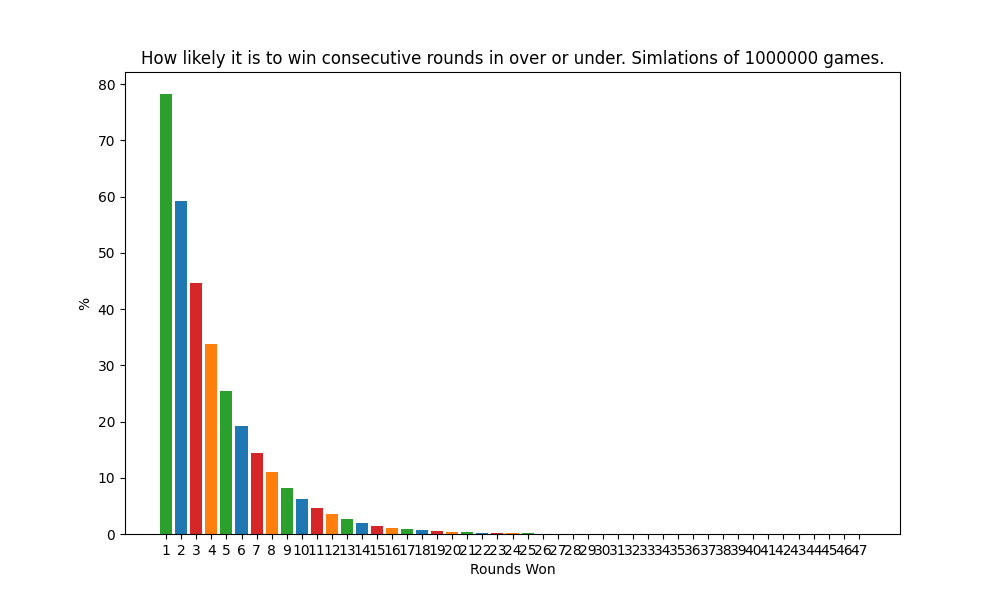
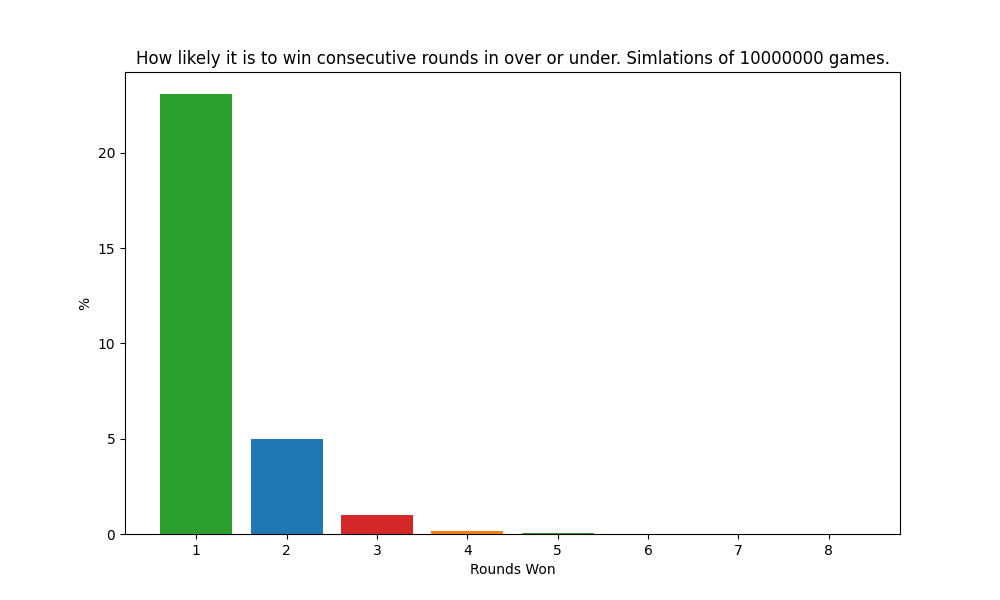
changes to game

diff --git a/card_game.py b/card_game.py
@@ -6,40 +6,47 @@ import matplotlib.pyplot as plt
 class Deck:
     def __init__(self):
         self.cards = [x for x in range(1, 14)] * 4
-        self.left_over_cards = []
         self.rounds_won = 0
 
     def draw_card(self):
         if len(self.cards) == 0:
             return False
+        count_list = {}
+        i = 1
+        while i < max(self.cards) + 1:
+            count_list[i] = self.cards.count(i)
+            i += 1
+        guessing_number = self.cards[len(self.cards) // 2]
         cardIndex = random.randint(0, len(self.cards) - 1)
         selected_card = self.cards.pop(cardIndex)
-        self.cards.sort()
-        guessing_number = round(sum(self.cards) / len(self.cards))
-        guessing_number_med = self.cards[len(self.cards) // 2]
 
-        # if guessing_number_med > 7 or guessing_number_med < 7:
-        #    print(f"guessing number cracked: {guessing_number_med}")
-
-        if len(self.left_over_cards) < 1:
-            self.left_over_cards.append(selected_card)
+        if guessing_number == selected_card:
+            self.rounds_won += 1
             return True
 
         elif selected_card > guessing_number:
-            if selected_card >= self.left_over_cards[-1]:
-                self.left_over_cards.append(selected_card)
+            updated_count = {k: v for k, v in count_list.items() if k > guessing_number}
+            guessing_number = max(updated_count)
+            if selected_card == guessing_number:
                 self.rounds_won += 1
                 return True
 
         elif selected_card <= guessing_number:
-            if selected_card <= self.left_over_cards[-1]:
-                self.left_over_cards.append(selected_card)
+            updated_count = {
+                k: v for k, v in count_list.items() if k <= guessing_number
+            }
+            new_guess = max(updated_count)
+            if guessing_number == new_guess:
+                del updated_count[new_guess]
+            new_guess = max(updated_count)
+            if selected_card == new_guess:
                 self.rounds_won += 1
                 return True
         else:
             return False
 
     def play_game(self):
+        self.cards.sort()
         while True:
             play = self.draw_card()
             if not play:
@@ -61,7 +68,7 @@ def get_win_percentage(win_list: list) -> list:
 
 if __name__ == "__main__":
     win_list = []
-    for _ in range(1000000):
+    for _ in range(10000000):
         deck = Deck()
         win_list.append(deck.play_game())
 
